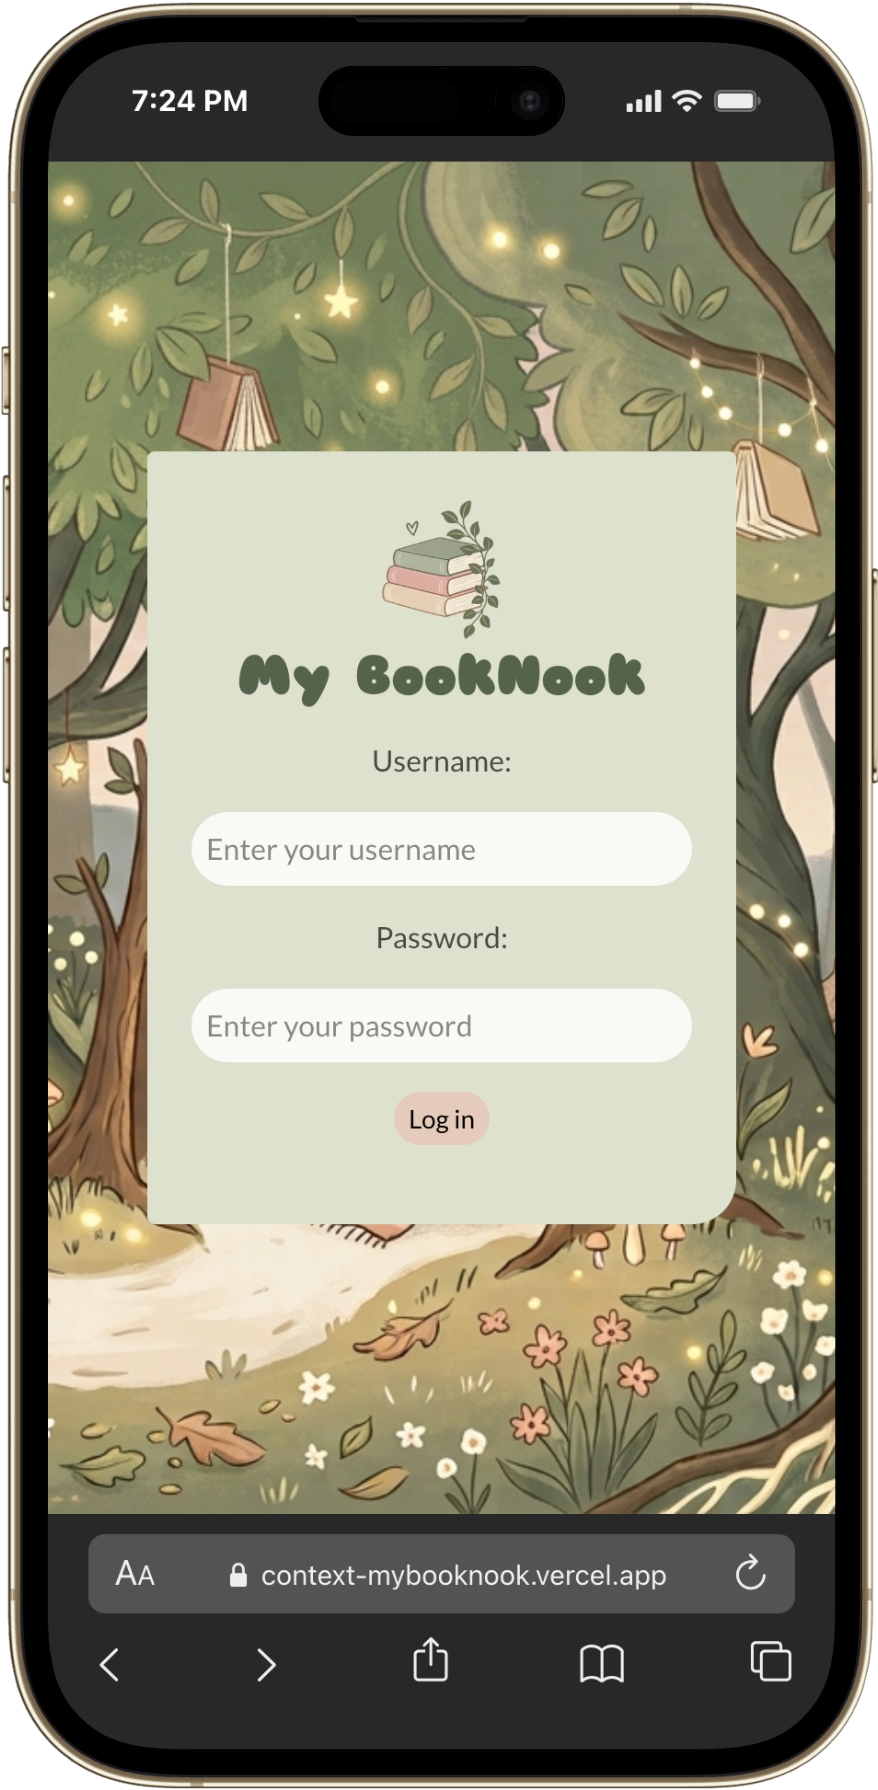
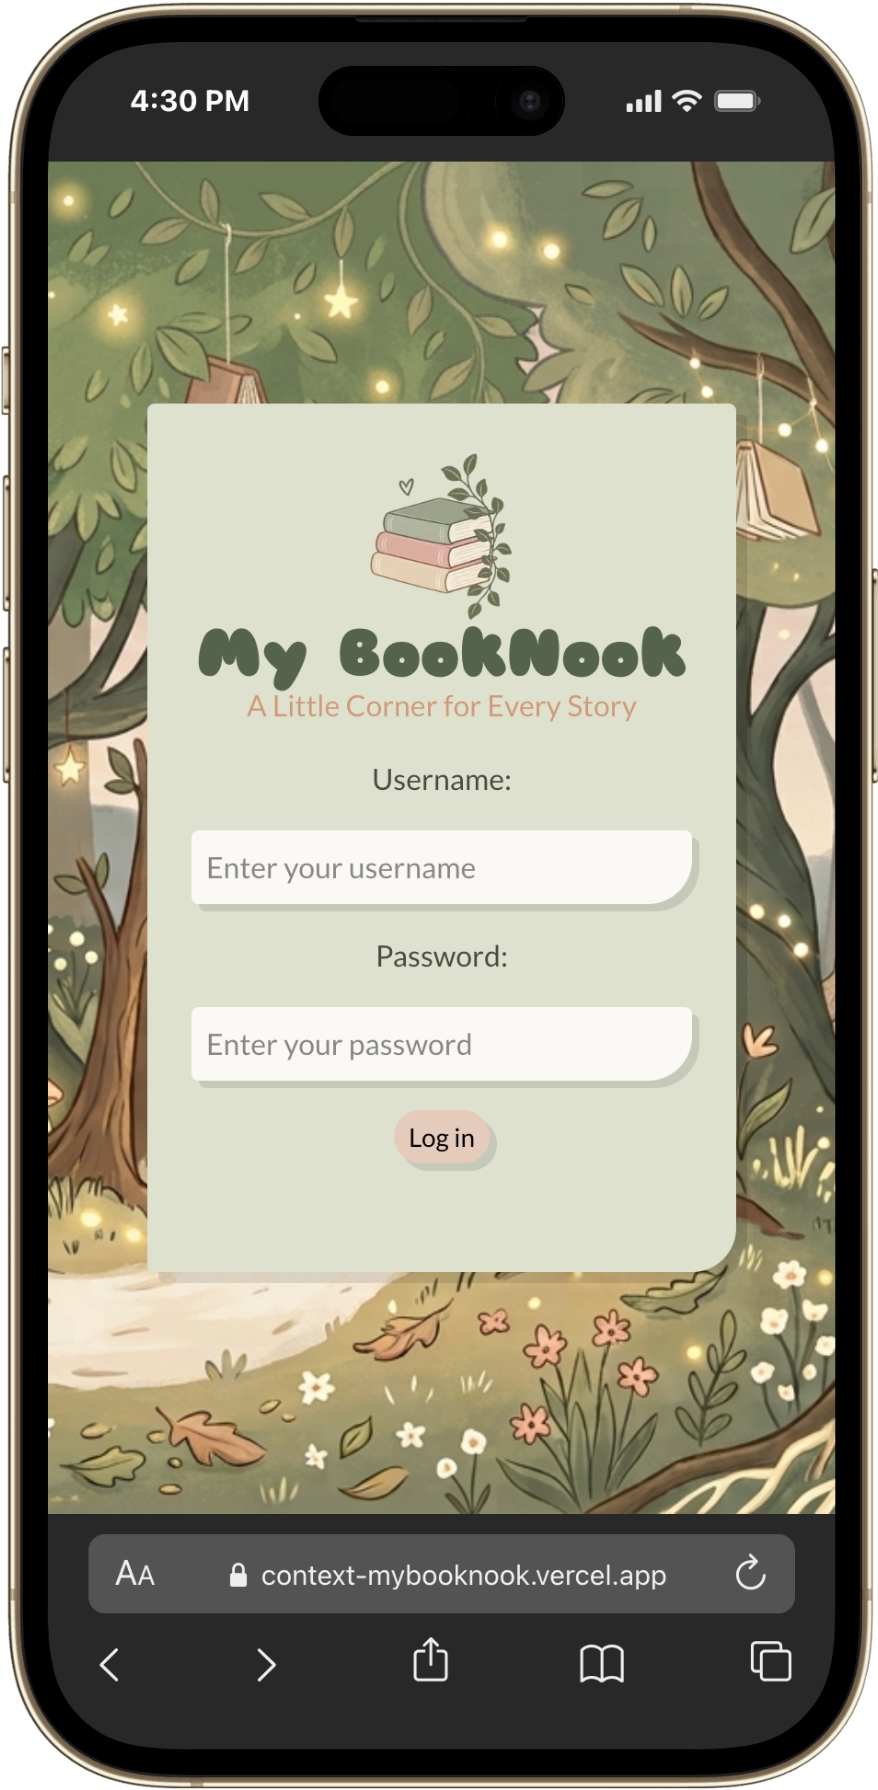
change screenshots

diff --git a/app/favorites/page.tsx b/app/favorites/page.tsx
@@ -2,7 +2,7 @@
 import BookCard from "@/components/BookCard";
 import GenreSelector from "@/components/GenreSelector";
 import { useUserContext } from "@/contexts/userContext";
-import { UserContextType } from "@/data/types";
+import { UserContextType } from "@/types/types";
 
 const FavoritesPage = () => {
   const { user } = useUserContext() as UserContextType;
@@ -14,10 +14,13 @@ const FavoritesPage = () => {
       <div>
         <h3 className="text-peach font-heading text-[24px]">Favorite Books</h3>
         <div className="md:grid md:grid-cols-2 lg:grid-cols-3 gap-4">
-          {user!.books.length > 0 ?
+          {user!.books.length > 0 ? (
             user!.books.map((book, index) => (
               <BookCard key={index} id={book.id} title={book.title} author={book.author} cover={book.cover} />
-            )) : <p className='text-ink'>You have no favorited books at the moment.</p>}
+            ))
+          ) : (
+            <p className="text-ink">You have no favorited books at the moment.</p>
+          )}
         </div>
       </div>
     </>

diff --git a/components/Login/index.tsx b/components/Login/index.tsx
@@ -1,5 +1,5 @@
 import { useUserContext } from "@/contexts/userContext";
-import { UserContextType } from "@/data/types";
+import { UserContextType } from "@/types/types";
 import { SetStateAction, useState } from "react";
 import { users } from "@/data/users";
 import Image from "next/image";
@@ -49,7 +49,9 @@ const Login = () => {
         className="bg-sage-light text-center w-80 md:w-100 h-118 p-6 m-auto rounded rounded-br-3xl shadow-[6px_6px_0px_rgba(0,0,0,0.12)]"
         onSubmit={handleLogin}>
         <Image src="/logo.png" alt="logo" width={80} height={80} className="w-24 h-24 m-auto" />
-        <h2 className="text-sage-dark font-heading text-[36px] md:text-[44px] leading-[0.9] md:leading-tight">My BookNook</h2>
+        <h2 className="text-sage-dark font-heading text-[36px] md:text-[44px] leading-[0.9] md:leading-tight">
+          My BookNook
+        </h2>
         <h4 className="text-peach text-[16px] md:text-[18px]">A Little Corner for Every Story</h4>
         <label className="field text-ink" htmlFor="username">
           Username:

diff --git a/components/SaveButton/index.tsx b/components/SaveButton/index.tsx
@@ -1,6 +1,6 @@
 "use client";
 import { useUserContext } from "@/contexts/userContext";
-import { BookCardType, UserContextType } from "@/data/types";
+import { BookCardType, UserContextType } from "@/types/types";
 import { FontAwesomeIcon } from "@fortawesome/react-fontawesome";
 import { faHeart } from "@fortawesome/free-solid-svg-icons";
 import { faHeart as faHeartRegular } from "@fortawesome/free-regular-svg-icons";
@@ -19,7 +19,7 @@ const SaveButton = ({ id, title, author, cover }: BookCardType) => {
   };
 
   return (
-    <button onClick={handleClick} className='my-2 mx-auto w-full'>
+    <button onClick={handleClick} className="my-2 mx-auto w-full">
       {user && user.books.find(book => book.id === id) ? (
         <FontAwesomeIcon icon={faHeart} className="text-pink text-[28px] hover:scale-95 cursor-pointer" />
       ) : (

diff --git a/components/Login/wrapper.tsx b/components/Login/wrapper.tsx
@@ -1,6 +1,6 @@
 "use client";
 import { useUserContext } from "@/contexts/userContext";
-import { UserContextType } from "@/data/types";
+import { UserContextType } from "@/types/types";
 import { ReactNode } from "react";
 import LogIn from ".";
 import Navigation from "../Navigation";
@@ -10,7 +10,8 @@ import Footer from "../Footer";
 const LoginWrapper = ({ children }: { children: ReactNode }) => {
   const { user } = useUserContext() as UserContextType;
   return (
-    <div className={`min-h-screen flex flex-col ${!user ? "bg-[url('/bg.jpeg')] bg-cover bg-position-[75%_center] md:bg-center" : ""}`}>
+    <div
+      className={`min-h-screen flex flex-col ${!user ? "bg-[url('/bg.jpeg')] bg-cover bg-position-[75%_center] md:bg-center" : ""}`}>
       {user ? (
         <>
           <Header />

diff --git a/app/book/[id]/page.tsx b/app/book/[id]/page.tsx
@@ -1,5 +1,5 @@
 import Image from "next/image";
-import { DetailedBookType } from "@/data/types";
+import { DetailedBookType } from "@/types/types";
 import SaveButton from "@/components/SaveButton";
 
 const BookPage = async ({ params }: { params: { id: string } }) => {
@@ -16,7 +16,7 @@ const BookPage = async ({ params }: { params: { id: string } }) => {
       throw new Error(`Failed to fetch book: ${response.status}`);
     }
     const data: DetailedBookType = await response.json();
-    console.log(data)
+    console.log(data);
     book = data;
     const fetchedAuthors = await Promise.all(
       data.authors?.map(author => fetch(`${process.env.NEXT_PUBLIC_API_ENDPOINT}${author.author.key}.json`)) ?? [],

diff --git a/contexts/userContext.tsx b/contexts/userContext.tsx
@@ -1,6 +1,6 @@
 "use client";
 
-import { SavedUserType, UserContextType, UserType } from "@/data/types";
+import { SavedUserType, UserContextType, UserType } from "@/types/types";
 import { createContext, ReactNode, useContext, useEffect, useState } from "react";
 
 const UserContext = createContext<UserContextType | null>(null);
@@ -8,7 +8,7 @@ const UserContext = createContext<UserContextType | null>(null);
 export const UserProvider = ({ children }: { children: ReactNode }) => {
   const [user, setUser] = useState<UserType | null>(null);
 
-    useEffect(() => {
+  useEffect(() => {
     const savedUsername = localStorage.getItem("loggedInUser");
 
     if (savedUsername) {

diff --git a/data/users.ts b/data/users.ts
@@ -1,6 +1,6 @@
-import { UserType } from "./types";
+import { UserType } from "../types/types";
 
 export const users: UserType[] = [
-  { username: "rob", password: "ert", genre: null, books:[]},
-  { username: "jane", password: "austin", genre: null, books:[]},
+  { username: "rob", password: "ert", genre: null, books: [] },
+  { username: "jane", password: "austin", genre: null, books: [] },
 ];

diff --git a/components/AuthorCard/index.tsx b/components/AuthorCard/index.tsx
@@ -1,11 +1,11 @@
-import { AuthorCardType } from "@/data/types";
+import { AuthorCardType } from "@/types/types";
 import Link from "next/link";
 import Image from "next/image";
 
 const AuthorCard = ({ id, photo, name }: AuthorCardType) => {
   return (
     <div
-    className="bg-pink
+      className="bg-pink
     rounded
     rounded-br-3xl
     text-center

diff --git a/components/Navigation/index.tsx b/components/Navigation/index.tsx
@@ -1,7 +1,7 @@
 "use client";
 
 import { useUserContext } from "@/contexts/userContext";
-import { UserContextType } from "@/data/types";
+import { UserContextType } from "@/types/types";
 import { faCaretDown, faCaretUp } from "@fortawesome/free-solid-svg-icons";
 import { FontAwesomeIcon } from "@fortawesome/react-fontawesome";
 import Link from "next/link";

diff --git a/components/GenreSelector/index.tsx b/components/GenreSelector/index.tsx
@@ -2,7 +2,7 @@
 
 import { genres } from "@/data/genres";
 import { useUserContext } from "@/contexts/userContext";
-import { UserContextType } from "@/data/types";
+import { UserContextType } from "@/types/types";
 
 const GenreSelector = () => {
   const { user, setUser } = useUserContext() as UserContextType;

diff --git a/app/genres/[genre]/page.tsx b/app/genres/[genre]/page.tsx
@@ -1,5 +1,5 @@
 import BookCard from "@/components/BookCard";
-import { BookCardType, GenreBookType } from "@/data/types";
+import { BookCardType, GenreBookType } from "@/types/types";
 
 const GenrePage = async ({ params }: { params: { genre: string } }) => {
   const { genre } = await params;

diff --git a/app/authors/[id]/page.tsx b/app/authors/[id]/page.tsx
@@ -1,4 +1,4 @@
-import { DetailedAuthorType } from "@/data/types";
+import { DetailedAuthorType } from "@/types/types";
 import Image from "next/image";
 
 const AuthorPage = async ({ params }: { params: { id: string } }) => {
